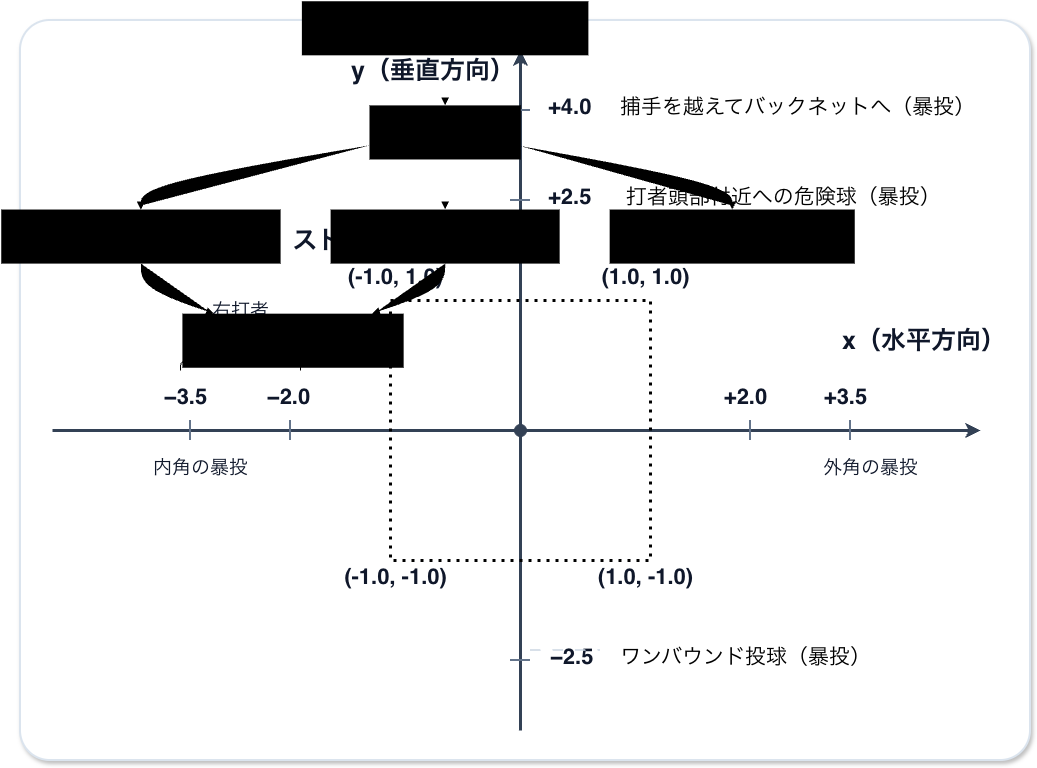
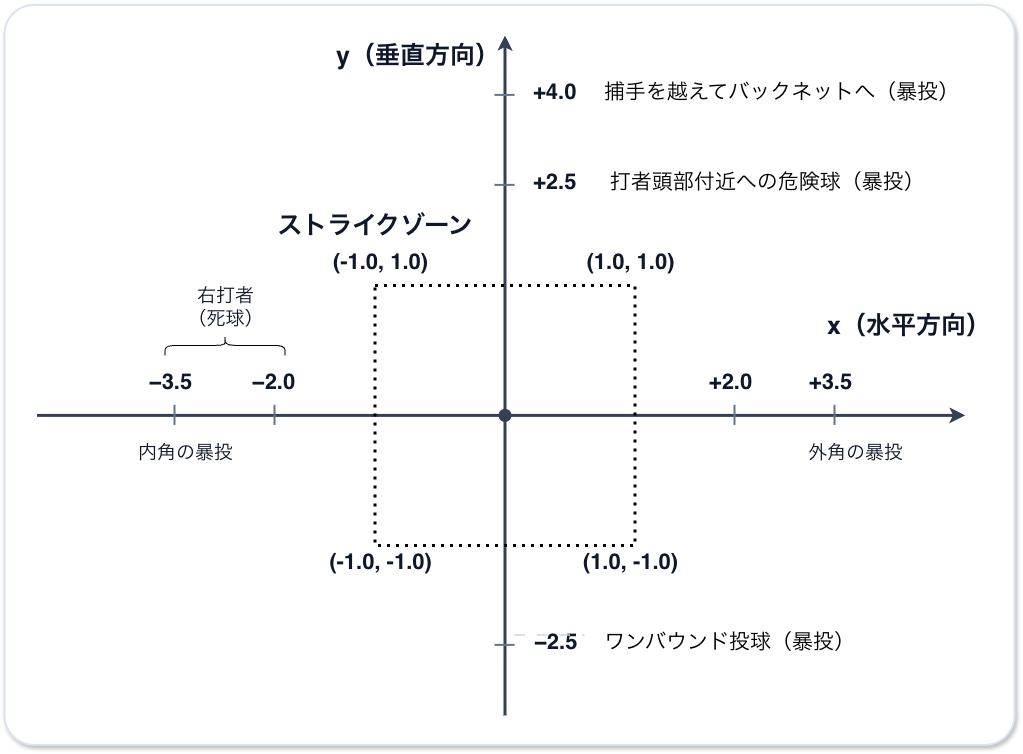
Wiki files were updated.

diff --git a/docs/wiki/ja-JP/pitching_physics.md b/docs/wiki/ja-JP/pitching_physics.md
@@ -1,11 +1,27 @@
-# Spatial coordinates of Ball Location
-<img src="../images/en-US/ball_location_diagram.png" width="50%">
+# 投球の空間座標
+<img src="../images/ja-JP/ball_location_diagram.png" width="50%">
+
+#### デッドボールの条件
+
+- 見送った場合
+  - 避ける動作に成功した場合、ボール
+  - 避ける動作に失敗した場合、デッドボール
+- スィングした場合
+  - バットに当たった場合、グリップ直撃のファール、または、ピッチャーゴロ
+  - 空振りの場合、ストライク
+
+#### 暴投の条件
+
+- 見送った場合
+  - ボール、ランナーがいた場合は進塁判定
+  - スィングした場合
+    - ストライク（バットには当たらない）
 
 # 投球の物理
 
 ### スピン軸別の効果
 
-<img src="../images/en-US/spin_angle.png" width="50%">
+<img src="../images/ja-JP/spin_angle.png" width="50%">
 
 ### アームスロット別の直球のスピン方向
 
@@ -26,6 +42,16 @@
   - 右打者の外角へ逃げる（スライダー）、または内角へ食い込む（シュート）軌道を作る。
 - ジャイロ回転（ライフル弾のようなドリル回転）
   - 空気抵抗を最小限に抑えて重力に従って落下。
+
+### 変化球のスピン軸への影響
+
+- 右投手の場合：
+  - スライダー（反時計回り）：基本軸からマイナス方向（左へ）
+  - シュート・チェンジアップ（時計回り）：基本軸からプラス方向（右へ）
+
+- 左投手の場合：
+  - スライダー（時計回り）：基本軸からプラス方向（右へ）
+  - シュート・チェンジアップ（反時計回り）：基本軸からマイナス方向（左へ）
 
 ### 回転数(rpm)の影響
 
@@ -150,16 +176,43 @@ $$\Delta t = t_{\text{actual}} - t_{\text{expected}}$$
 
 $$\Delta t_{\text{extension}} = \frac{18.44 - \text{extension}}{v_{\text{avg}}} - \frac{18.44 - \text{std\_extension}}{v_{\text{avg}}}$$
 
-- 
+- 例：
+  - リリースポイントのYが2.1mの場合、1.85mの投手より約6ミリ秒、ボールが早く到達する。
+
+#### ズレの原因2：打者の予測球速とのギャップ
+
+- ストレートの体感速度
+  - リリースポイントが長く、高回転の場合、打者の予測球速よりも体感球速が早くなるため、$\Delta t > 0$（振り遅れ）になる。
+
+- チェンジアップ・フォークの緩急（緩急差）
+  - ストレートと同じフォームで球速の遅いチェンジアップやフォークが来ると、$\Delta t < 0$（泳がされる） になる。
+
+#### ズレの原因3：縦の変化
+
+- ドロップ系（フォーク/カーブ）
+  - 縦の変化により、バットの軌道とボールの軌道が交差する点を通過するタイミングが前後にズレる。
+
+#### ズレの原因4：投球のコース
+
+| コース | インパクトポイント | 影響 | メカニズム |
+| ---- | ---- | ---- | ---- |
+| 内角 | 前 | $+\Delta t$（振り遅れ） | バットのヘッドが回る前にボールが到達するため、反応時間が短くなる。 |
+| 外角 | 後 | $-\Delta t$（泳がされる） | ボールを呼び込んで叩くため、反応時間が長くなる。 |
+| 高め | やや前 | $+\Delta t$（振り遅れ） | スイング軌道の最短ルートから外れるため、スイング始動が遅れる。 |
+| 低め | やや後 | $-\Delta t$（泳がされる） | 重力に従ってスイング軌道になるため、引きつけて捉えやすい。 |
+
+**打者のコース予測による影響**
+
+$$\Delta \text{Loc} = \text{Loc}_{\text{actual}} - \text{Loc}_{\text{expected}}$$
+
+- $\text{Loc}_{\text{actual}}$：実際のコース
+- $\text{Loc}_{\text{actual}}$：打者のコース予測
+- $\Delta \text{Loc}$：予測誤差
+  - 予測に近ければコースによるバイアスが緩和され、予測から遠ければバイアスが増幅される。
 
 
-### 変化球の「ひねり（オフセット）」の向き
 
-- 右投手の場合：
-  - スライダー（反時計回り）：基本軸から 「マイナス方向（左へ）」 ひねる
-  - シュート・チェンジアップ（時計回り）：基本軸から 「プラス方向（右へ）」 ひねる
 
-- 左投手の場合：
-  - スライダー（時計回り）：基本軸から 「プラス方向（右へ）」 ひねる
-  - シュート・チェンジアップ（反時計回り）：基本軸から 「マイナス方向（左へ）」 ひねる
+
+
 

diff --git a/docs/wiki/ja-JP/batting_logic.md b/docs/wiki/ja-JP/batting_logic.md
@@ -1,0 +1,58 @@
+# 打撃ロジック
+
+# 打撃処理の流れ
+<img src="../images/batting_diagram.png" width="50%">
+
+# 1. calculate_batting_factor
+
+## 1.1 distance_from_zone_edge
+
+## 1.2 calculate_zone_similarity_factor
+
+- 予測通り真ん中：+0.3
+- 予測とは違うが実際のコースが真ん中：+0.1
+- 外角／内角、高め／低め、どちらも予測通り：+0.2
+- 外角／内角、または、高め／低め、どちらかが予想通り：+0.05
+- 実際のコースが予測の対角：-0.2
+
+
+## 1.3 calculate_pitch_similarity
+
+## 1.4 zone_modifier
+
+
+
+# 2. adapt_to_pitch
+
+# 3. calculate_swing_factor
+
+
+# 4. select_swing_execution
+
+## 4.1 calculate_bat_angle
+
+## 4.2 calculate_dynamic_attack_angle
+
+# 5. evaluate_swing_contact
+
+- バットの長さを越えている場合（芯からバットの端までの長さ方向の距離：0.35m）、SwungAndMiss
+- バットの太さを越えている場合（芯からバットの端までの太さ方向の距離：0.07m）、SwungAndMiss
+- 芯からバットの端までの太さ方向の距離 > 0.055mの場合、FoulTip
+- 芯からバットの端までの太さ方向の距離 > 0.025mの場合、WeakContact
+- 芯からバットの端までの太さ方向の距離 > 0.025mの場合、SolidContact
+
+# 6. calculate_batted_ball
+
+## 6.1 classify_trajectory_type
+
+## 6.2 calculate_collision_spin
+
+## 6.3 combine_batted_spin
+
+## 6.4 calculate_effective_c_swing
+
+## 6.5 calculate_launch_speed_with_power
+
+## 6.6 calculate_launch_angles
+
+## 6.7 calculate_3d_flight_path

diff --git a/docs/wiki/ja-JP/batting_physics.md b/docs/wiki/ja-JP/batting_physics.md
@@ -4,7 +4,7 @@
 
 **(飛距離$R$、水平角 $\theta$)**
 
-<img src="../images/en-US/baseball_coordinate.png" width="50%">
+<img src="../images/ja-JP/baseball_coordinate.png" width="50%">
 
 # 打球の物理
 
@@ -232,7 +232,7 @@ $$a_{\text{side}} = a_{\text{magnus}} \cdot \sin(\text{spin\_dir})$$
 | ボールの少し下を叩いた | +15° | 28° | 43° | フライ |
 | ボールの下を叩いた | +30° | 28° | 58° | ポップアップ |
 
+### バットの有効接触半径
 
+<img src="../images/ja-JP/sweet_range.png" width="40%">
 
-# Batting Process Flow
-<img src="../images/batting_diagram.png" width="50%">

diff --git a/docs/wiki/ja-JP/pitching_logic.md b/docs/wiki/ja-JP/pitching_logic.md
@@ -60,6 +60,21 @@ $$\text{HAA}_{\text{perceived}} = \text{HAA}_{\text{physical}} \times \text{Unfa
 
 # 4. calculate_location_bias
 
+#### タイミングバイアス
+
+- 内角：最大 +12ms
+- 外角：最大 -10ms
+
+#### X軸のバイアス
+
+- 内角：詰まり(-)
+- 外角：バットの先端(+)
+
+#### Y軸のバイアス
+
+- 高め：ボールの上を叩く(-)
+- 低め：ボールの下を叩く(+)
+
 # 5. calculate_pitch_offset
 
 
